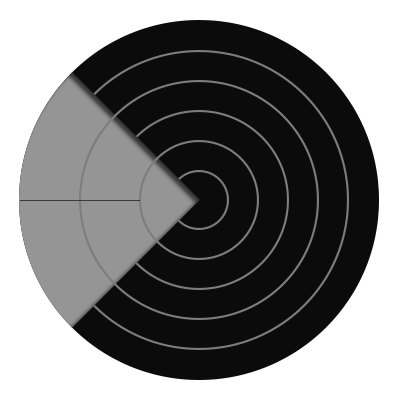
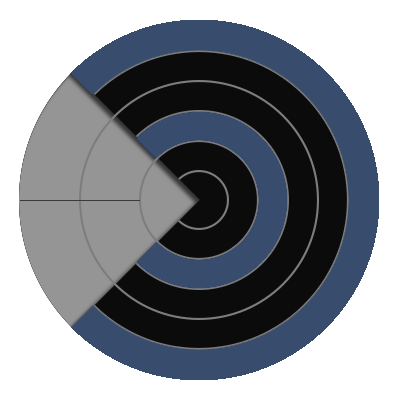
Changed the backgroud

Changed region(s): [[0.18, 0.03, 0.96, 0.96], [0.33, 0.27, 0.72, 0.72]]

diff --git a/src/Keyboard.java b/src/Keyboard.java
@@ -533,7 +533,7 @@ public class Keyboard {
 							case 1: // Space
 								robot.keyPress(KeyEvent.VK_SPACE); robot.keyRelease(KeyEvent.VK_SPACE);
 								break;
-							case 2: // Enter TODO: Press alt and = simultaneously
+							case 2: // Enter
 								robot.keyPress(KeyEvent.VK_ENTER); robot.keyRelease(KeyEvent.VK_ENTER);
 								robot.keyPress(KeyEvent.VK_ALT);
 								robot.keyPress(KeyEvent.VK_EQUALS);
